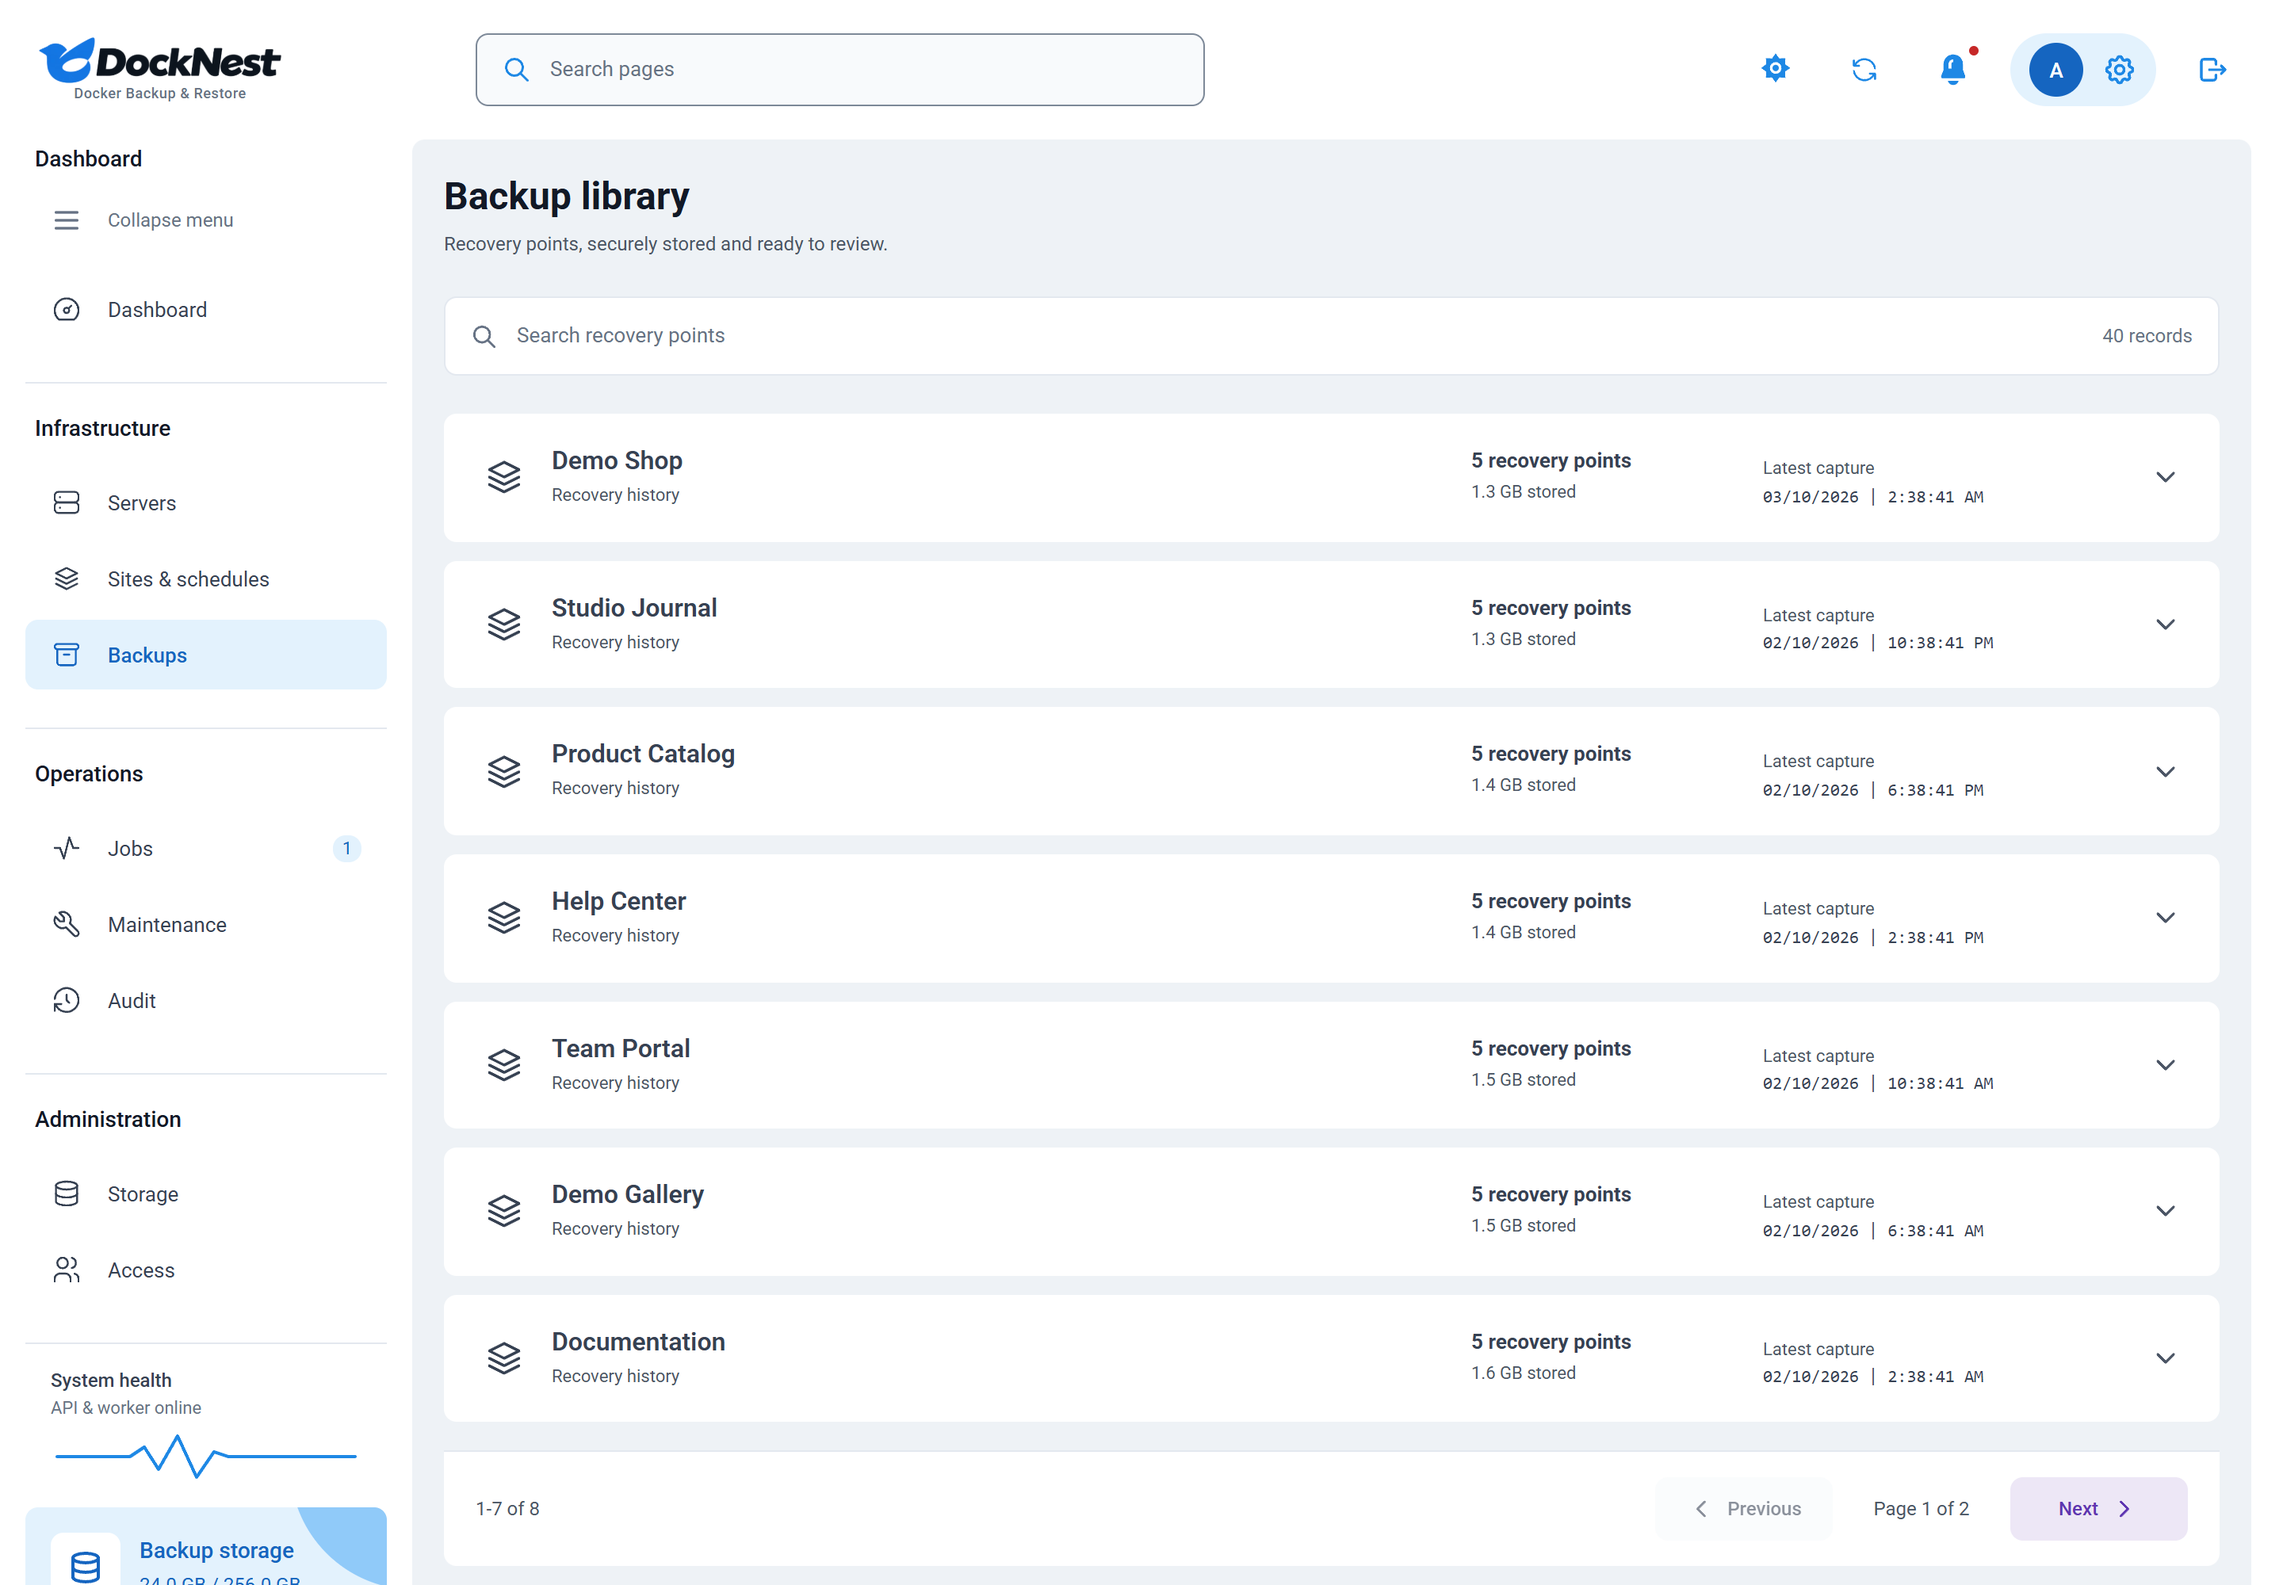
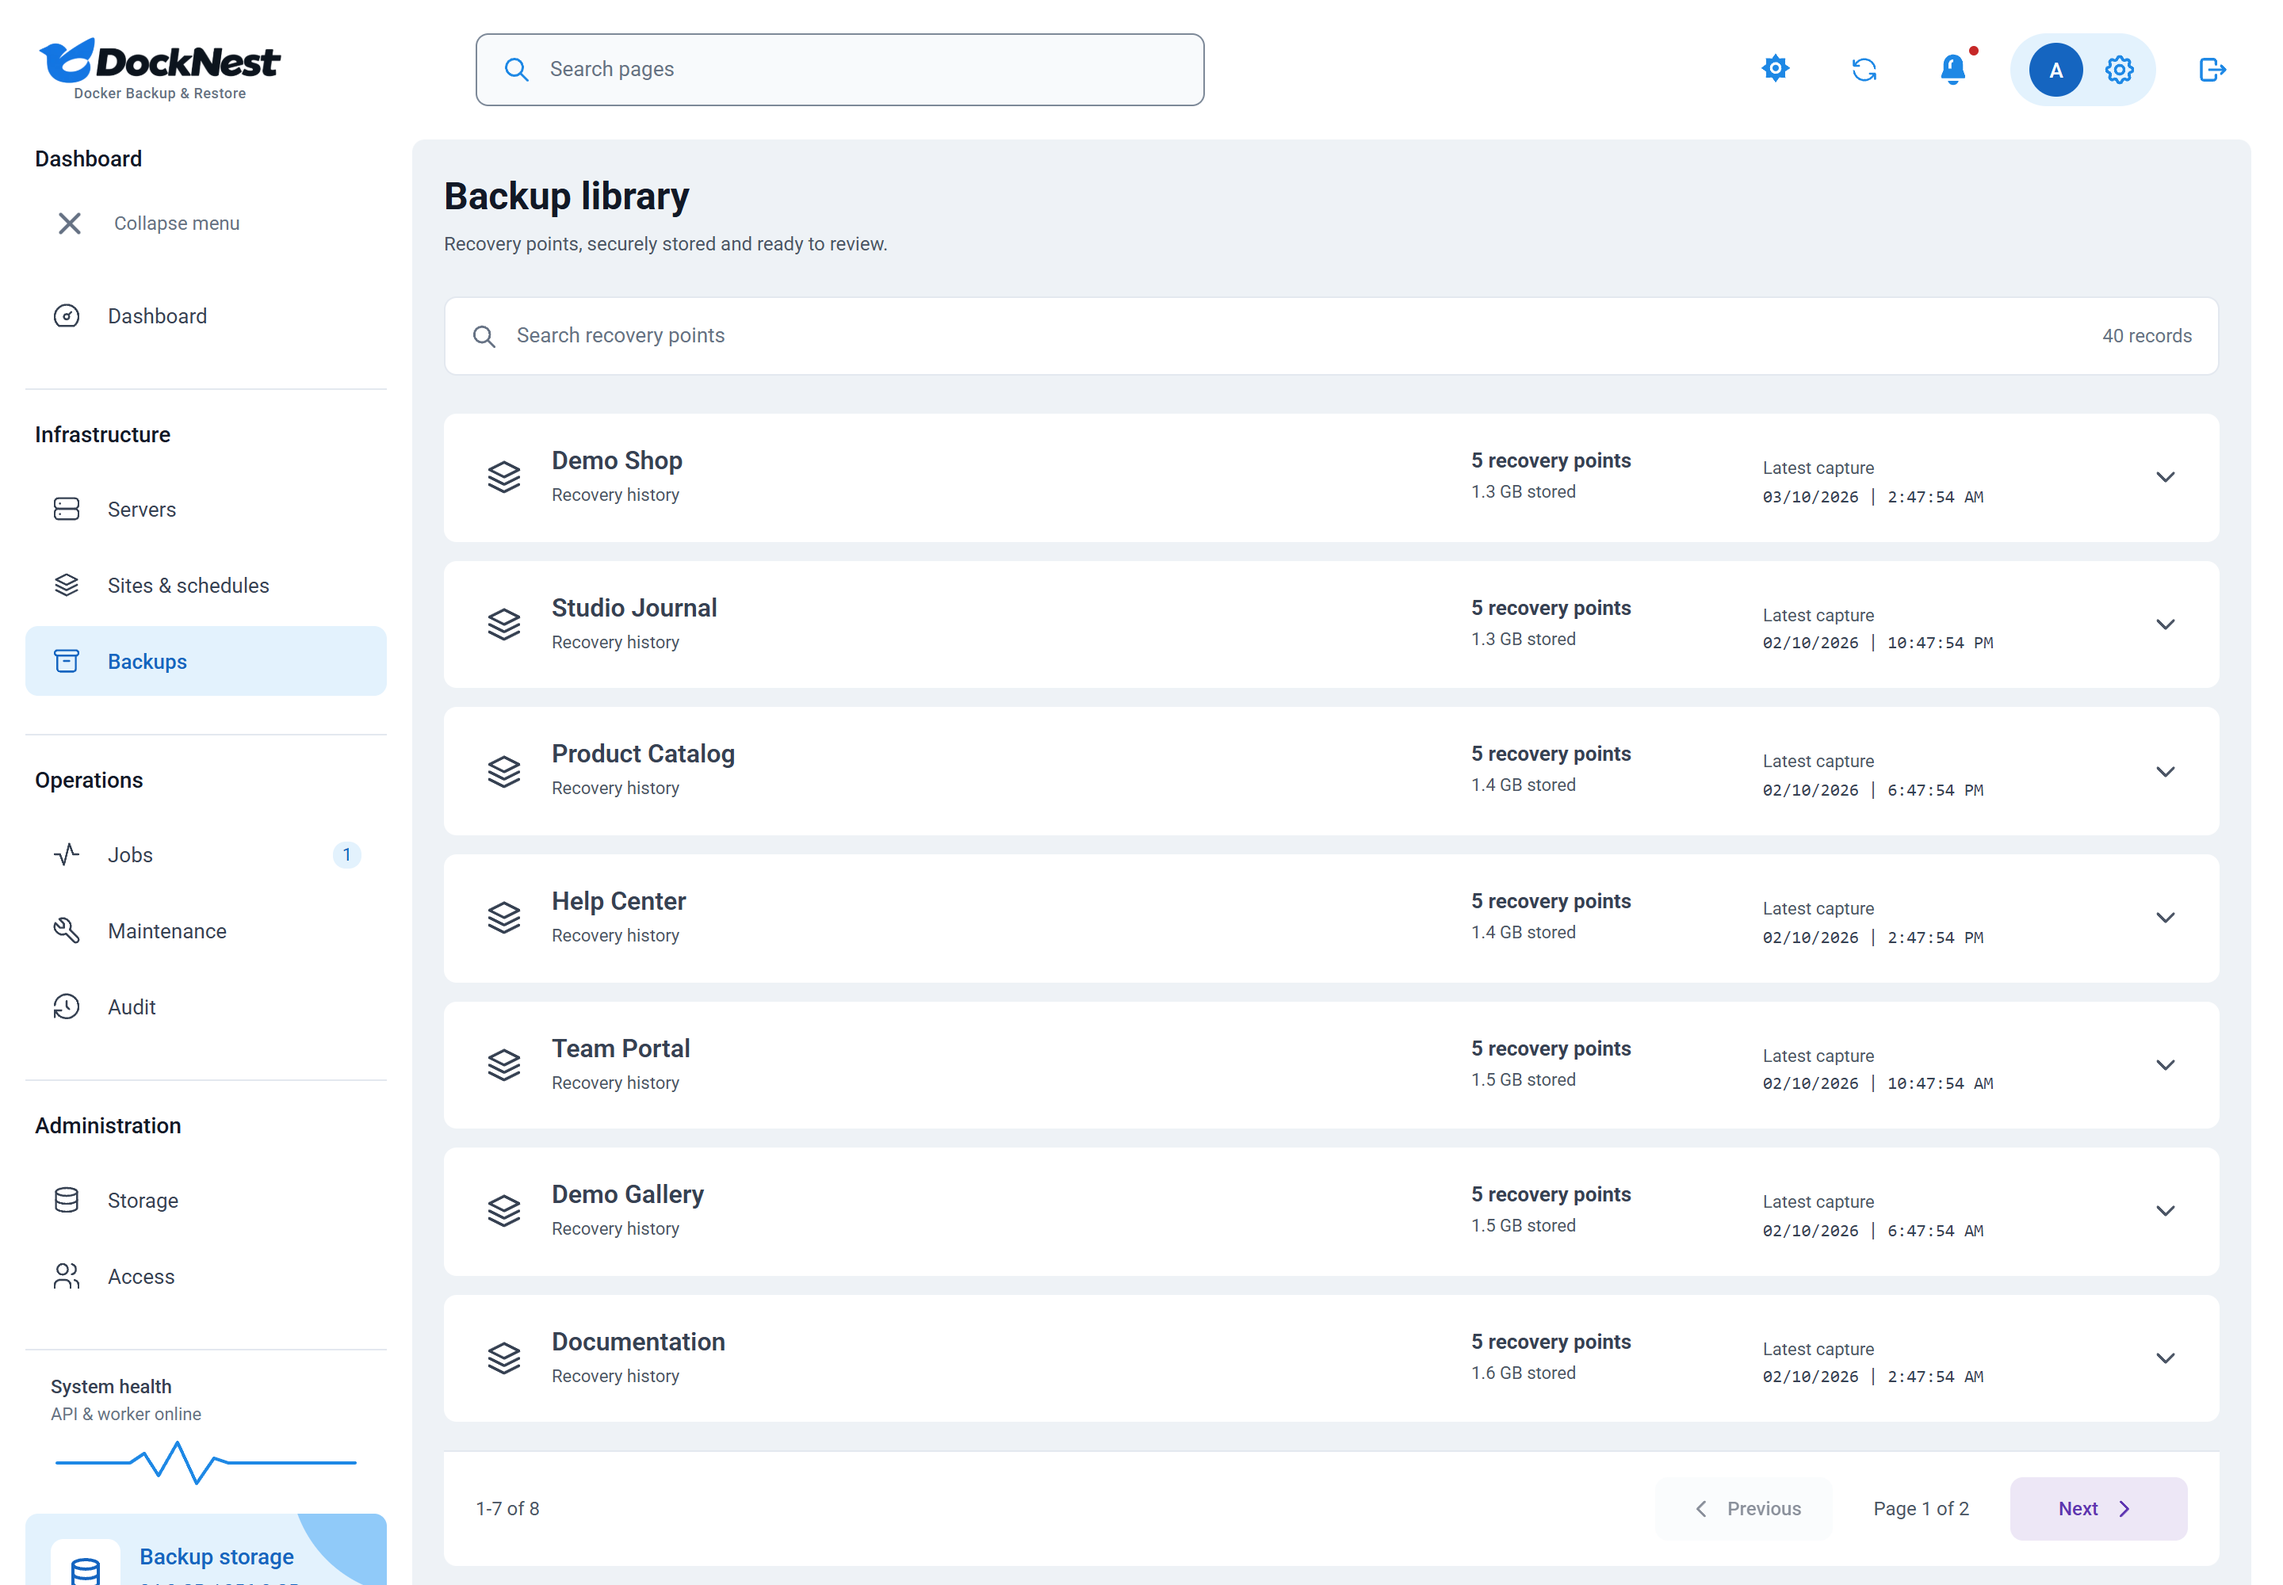
style(ui): animate borderless navigation menu on desktop and mobile

diff --git a/web/shell.jsx b/web/shell.jsx
@@ -1,10 +1,13 @@
 import React,{useEffect,useRef,useState} from 'react';
-import {IconMenu2,IconX,IconSearch,IconSettings,IconLogout,IconDatabase,IconChevronRight} from '@tabler/icons-react';
+import {IconX,IconSearch,IconSettings,IconLogout,IconDatabase,IconChevronRight} from '@tabler/icons-react';
 import {Brand,BrandIcon,ThemeToggle,ThemePreferences,NotificationSymbol,useTheme} from './brand.jsx';
 import './shell.css';
 import {SystemHealth} from './system-health.jsx';
 import {CompactStorage} from './sidebar-storage.jsx';
 
+function MenuSymbol({open}){
+ return <svg className={'menu-symbol'+(open?' open':'')} width="24" height="24" viewBox="0 0 24 24" fill="none" stroke="currentColor" strokeWidth="2.2" strokeLinecap="round" aria-hidden="true"><line className="menu-bar menu-bar-top" x1="4" y1="12" x2="20" y2="12"/><line className="menu-bar menu-bar-middle" x1="4" y1="12" x2="20" y2="12"/><line className="menu-bar menu-bar-bottom" x1="4" y1="12" x2="20" y2="12"/></svg>;
+}
 export function BerryShell({route,navigate,routes,user,active,storage,bytes,onLogout,onRefresh,connection,worker,jobs,children}){
  const {bindUser}=useTheme();
  useEffect(()=>{bindUser(user?.id);return()=>bindUser(null)},[user?.id]);
@@ -19,14 +22,14 @@ export function BerryShell({route,navigate,routes,user,active,storage,bytes,onLo
  return <div className={'berry-shell '+(collapsed?'collapsed ':'')+(mobile?'mobile-open':'')}>
   <header className="berry-header">
    <button className="brand brand-button" aria-label="DockNest home" onClick={()=>go('Overview')}><Brand/></button>
-   <button className="berry-menu berry-mobile-menu" aria-label="Open navigation" aria-expanded={mobile} onClick={()=>setMobile(!mobile)}><IconMenu2 size={20}/></button>
+   <button className="berry-menu berry-mobile-menu menu-control" aria-label="Open navigation" aria-expanded={mobile} onClick={()=>setMobile(!mobile)}><MenuSymbol open={mobile}/></button>
    <div className="berry-global-search"><IconSearch size={18}/><input aria-label="Search pages" placeholder="Search pages" value={search} onChange={e=>setSearch(e.target.value)}/>{search&&<div className="berry-search-results" role="listbox" aria-label="Matching pages">{matches.length?matches.map(([name])=><button key={name} onClick={()=>go(name)}>{name}<IconChevronRight size={16}/></button>):<span>No matching pages</span>}</div>}</div>
    <div className="berry-header-tools"><ThemeToggle/><button className="icon" aria-label="Refresh dashboard" onClick={onRefresh}><BrandIcon name="refresh" size={20}/></button><div className="berry-notifications"><button className="berry-bell" aria-label="Active job notifications" aria-expanded={notifications} onClick={()=>setNotifications(!notifications)}><NotificationSymbol/>{active.length>0&&<i/>}</button>{notifications&&<section className="berry-popover"><header><h2>Active jobs</h2><button className="icon" aria-label="Close notifications" onClick={()=>setNotifications(false)}><IconX size={16}/></button></header>{active.length?active.slice(0,5).map(job=><p key={job.id}>{job.type==='restore'?'Restore':'Backup'} <b>{job.status}</b></p>):<p>No jobs running right now.</p>}<button className="text" onClick={()=>{go('Jobs');setNotifications(false)}}>View job activity <IconChevronRight size={16}/></button></section>}</div><button className="berry-profile" aria-label="Open account preferences" title={label} onClick={()=>setCustomizer(true)}><span className="avatar">{label[0].toUpperCase()}</span><IconSettings size={22}/></button><button className="icon berry-logout" aria-label="Sign out" onClick={onLogout}><IconLogout size={20}/></button></div>
   </header>
   {mobile&&<button className="berry-nav-backdrop" aria-label="Close navigation" onClick={()=>setMobile(false)}/>}
   <aside className="berry-sidebar" aria-label="Primary navigation">
    <nav aria-label="Main navigation">{[['Dashboard',['Overview']],['Infrastructure',['Servers','Sites & schedules','Backups']],['Operations',['Jobs','Maintenance','Audit']],['Administration',['Storage','Access']]].map(([group,names])=>{
-    const items=routes.filter(([name])=>names.includes(name));return items.length?<div className="berry-nav-group" key={group}><h2>{group}</h2>{group==='Dashboard'&&<button className="berry-nav-toggle" aria-label="Toggle navigation" title={collapsed?'Expand navigation':'Collapse navigation'} aria-expanded={innerWidth<900?mobile:!collapsed} onClick={()=>{if(innerWidth<900)setMobile(false);else setCollapsed(!collapsed)}}><IconMenu2 size={20}/><span>Collapse menu</span></button>}{items.map(([name])=><button key={name} aria-label={name} title={collapsed?name:undefined} aria-current={route===name?'page':undefined} className={route===name?'selected':''} onClick={()=>go(name)}><BrandIcon name={{Overview:'overview',Servers:'server','Sites & schedules':'sites',Backups:'backups',Jobs:'jobs',Maintenance:'maintenance',Audit:'audit',Storage:'storage',Access:'access'}[name]} size={20}/><span>{name==='Overview'?'Dashboard':name==='Sites & schedules'?'Sites & schedules':name}</span>{name==='Jobs'&&active.length>0&&<span className="count">{active.length}</span>}</button>)}</div>:null;
+    const items=routes.filter(([name])=>names.includes(name));return items.length?<div className="berry-nav-group" key={group}><h2>{group}</h2>{group==='Dashboard'&&<button className="berry-nav-toggle menu-control" aria-label="Toggle navigation" title={collapsed?'Expand navigation':'Collapse navigation'} aria-expanded={innerWidth<900?mobile:!collapsed} onClick={()=>{if(innerWidth<900)setMobile(false);else setCollapsed(!collapsed)}}><MenuSymbol open={innerWidth<900?mobile:!collapsed}/><span>Collapse menu</span></button>}{items.map(([name])=><button key={name} aria-label={name} title={collapsed?name:undefined} aria-current={route===name?'page':undefined} className={route===name?'selected':''} onClick={()=>go(name)}><BrandIcon name={{Overview:'overview',Servers:'server','Sites & schedules':'sites',Backups:'backups',Jobs:'jobs',Maintenance:'maintenance',Audit:'audit',Storage:'storage',Access:'access'}[name]} size={20}/><span>{name==='Overview'?'Dashboard':name==='Sites & schedules'?'Sites & schedules':name}</span>{name==='Jobs'&&active.length>0&&<span className="count">{active.length}</span>}</button>)}</div>:null;
    })}</nav>
    <SystemHealth connection={connection} worker={worker} jobs={jobs}/>
    <div className="berry-sidebar-storage"><div><span className="berry-storage-icon"><IconDatabase size={24}/></span><span><b>Backup storage</b><small>{bytes(storage?.used)}{storage?.total?' / '+bytes(storage.total):''}</small></span></div><p><span>{storage?.total?'Capacity used':'Capacity not reported'}</span><b>{storage?.total?percent+'%':'\u2014'}</b></p><progress aria-label="Sidebar storage used" value={percent} max={100}/></div>

diff --git a/web/shell.css b/web/shell.css
@@ -1,6 +1,6 @@
 .berry-shell{--rail:260px}.berry-shell.collapsed{--rail:72px}
 .berry-header{position:fixed;inset:0 0 auto;height:88px;z-index:100;background:var(--surface);display:flex;align-items:center;gap:16px;padding:16px 24px}
-.berry-header>.brand{width:260px;justify-content:flex-start;flex-shrink:0}.berry-menu{width:34px;min-height:34px;padding:0;background:var(--primary-light);color:var(--header-control);border:0;margin-right:0}.berry-header .berry-menu:hover{background:var(--primary-light);color:var(--header-control-hover)}
+.berry-header>.brand{width:260px;justify-content:flex-start;flex-shrink:0}.berry-menu{width:44px;min-width:44px;min-height:44px;padding:0;background:transparent;color:var(--header-control);border:0;margin-right:0;flex-shrink:0}.berry-header .berry-menu{min-height:44px}.berry-header .berry-menu:hover{background:transparent;color:var(--header-control-hover)}
 .berry-global-search{width:460px;max-width:460px;min-width:0;height:46px;margin-left:0;display:flex;align-items:center;gap:12px;border:1px solid var(--border-control);border-radius:var(--radius-input);padding:10px 16px;color:var(--header-control);background:var(--surface-muted);position:relative;transition:background-color 180ms ease,border-color 180ms ease}
 .berry-global-search>svg{flex-shrink:0}.berry-global-search:hover{border-color:var(--header-control);background:var(--surface)}.berry-global-search:focus-within{border-color:var(--header-control-hover);background:var(--surface);outline:2px solid var(--header-control-hover);outline-offset:2px}
 .berry-global-search input{border:0;min-width:0;min-height:0;padding:0;background:transparent;flex:1}.berry-global-search input:focus-visible{outline:none}
@@ -40,10 +40,10 @@
 @keyframes berry-ring{0%,100%{transform:rotate(0)}25%{transform:rotate(12deg)}50%{transform:rotate(-10deg)}75%{transform:rotate(6deg)}}
 @media(prefers-reduced-motion:reduce){.berry-header-tools button>svg{transition:none!important;animation:none!important}.berry-header-tools button:hover>svg{transform:none}}
 
-.berry-mobile-menu{display:none}.berry-nav-group .berry-nav-toggle{min-height:40px;margin-top:-8px;margin-bottom:12px;color:var(--text-muted);font-size:12px}.berry-nav-group .berry-nav-toggle:hover{color:var(--sidebar-nav-accent);background:var(--sidebar-nav-soft)}.berry-nav-toggle svg{flex-shrink:0;transition:transform 200ms ease}.berry-nav-toggle:hover svg{transform:scale(1.08)}
+.berry-mobile-menu{display:none}.berry-nav-group .berry-nav-toggle{min-height:44px;margin-top:-8px;margin-bottom:12px;color:var(--text-muted);font-size:12px}.berry-nav-group .berry-nav-toggle:hover{color:var(--sidebar-nav-accent);background:transparent}
 @media(min-width:900px){.collapsed .berry-nav-group .berry-nav-toggle{padding:8px;justify-content:center;margin-top:0}}
 @media(max-width:899px){.berry-mobile-menu{display:inline-flex}}
-@media(prefers-reduced-motion:reduce){.berry-nav-toggle:hover svg{transform:none}}
+
 
 .system-health{--health-color:var(--primary-dark);margin:0 0 16px;padding:0 16px;color:var(--health-color);outline-offset:4px;border-radius:8px}
 .system-health.attention{--health-color:var(--secondary-dark)}.system-health.checking{--health-color:var(--text-muted)}
@@ -103,3 +103,22 @@ html.theme-changing,.theme-changing :where(body,header,aside,main,section,div,bu
 .berry-sidebar-storage progress,.compact-storage-details progress{accent-color:var(--sidebar-storage-accent)}
 .berry-sidebar-storage progress::-webkit-progress-value,.compact-storage-details progress::-webkit-progress-value{background:var(--sidebar-storage-accent)}
 .berry-sidebar-storage progress::-moz-progress-bar,.compact-storage-details progress::-moz-progress-bar{background:var(--sidebar-storage-accent)}
+
+/* Menu motion uses the existing corporate easing and responds only to interaction. */
+.menu-symbol{display:block;flex-shrink:0;overflow:visible}
+.menu-symbol .menu-bar{transform-origin:12px 12px;transition:transform 220ms cubic-bezier(.2,0,0,1),opacity 120ms ease}
+.menu-symbol .menu-bar-top{transform:translateY(-6px) scaleX(.75) translateX(-2px)}
+.menu-symbol .menu-bar-bottom{transform:translateY(6px) scaleX(.625) translateX(3px)}
+.menu-symbol.open .menu-bar-top{transform:rotate(45deg)}
+.menu-symbol.open .menu-bar-middle{opacity:0;transform:scaleX(.1)}
+.menu-symbol.open .menu-bar-bottom{transform:rotate(-45deg)}
+.berry-nav-group .menu-control,.berry-nav-group .menu-control:hover,.berry-menu,.berry-menu:hover{background:transparent;border:0}
+.menu-control:focus-visible{outline:2px solid var(--header-control-hover);outline-offset:3px}
+@media(hover:hover){
+ .menu-control:hover .menu-symbol:not(.open) .menu-bar-top{transform:translateY(-7px) scaleX(1)}
+ .menu-control:hover .menu-symbol:not(.open) .menu-bar-bottom{transform:translateY(7px) scaleX(1)}
+}
+@media(max-width:359px){
+ .berry-header{padding-inline:6px;gap:0}
+}
+@media(prefers-reduced-motion:reduce){.menu-symbol .menu-bar{transition:none}}
